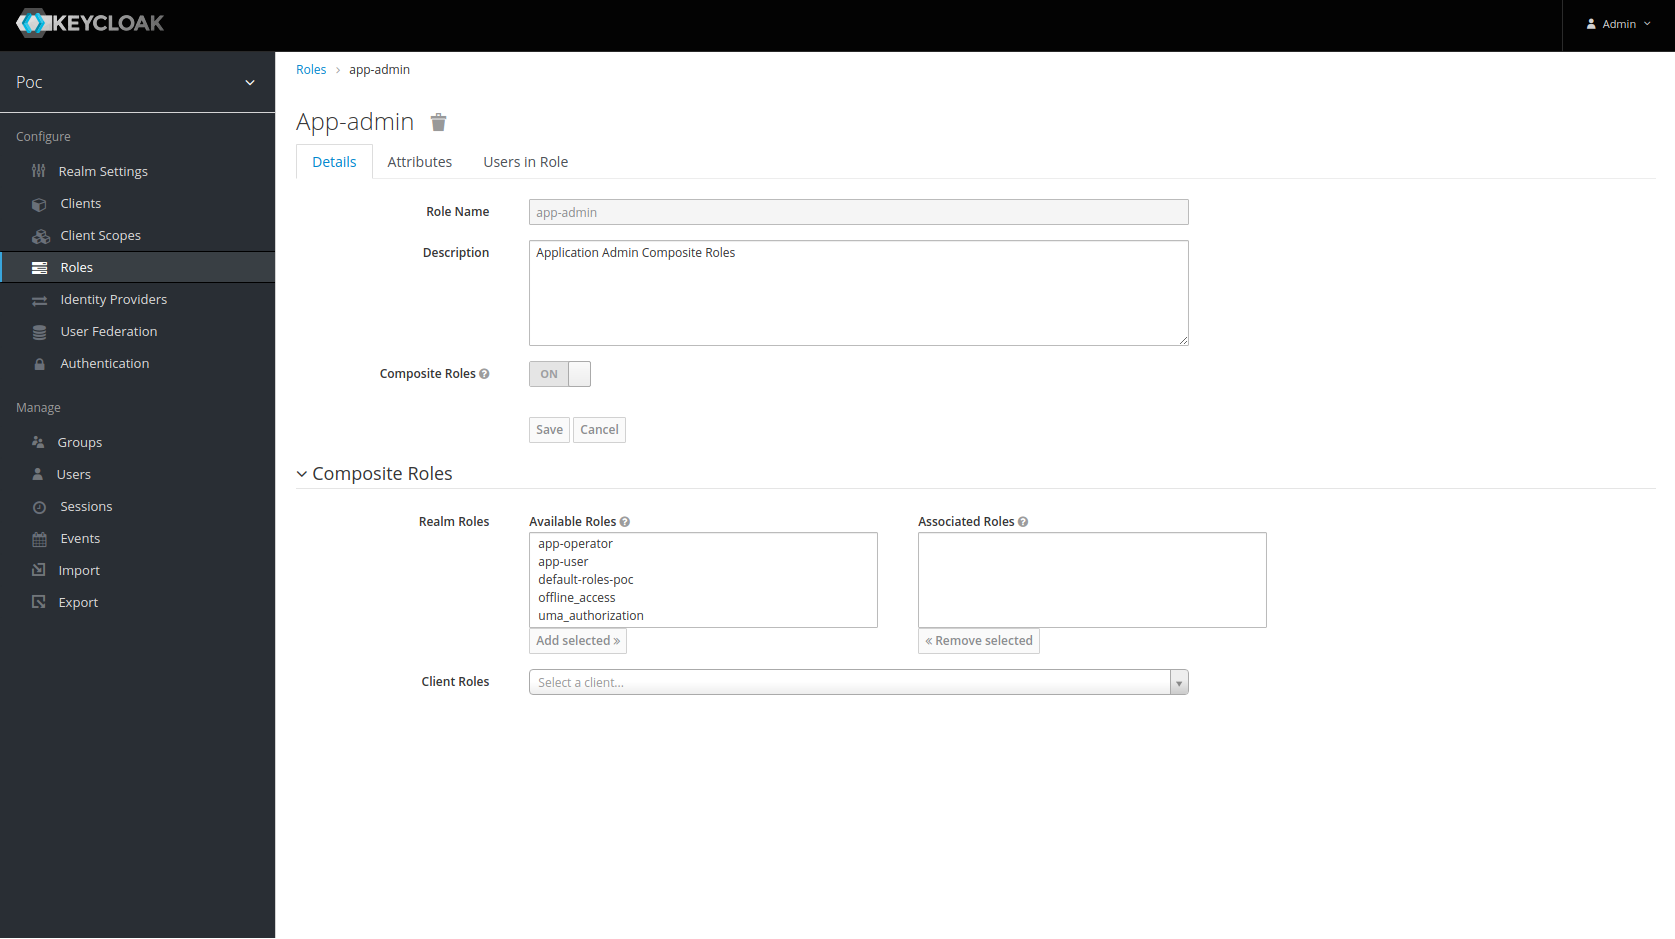
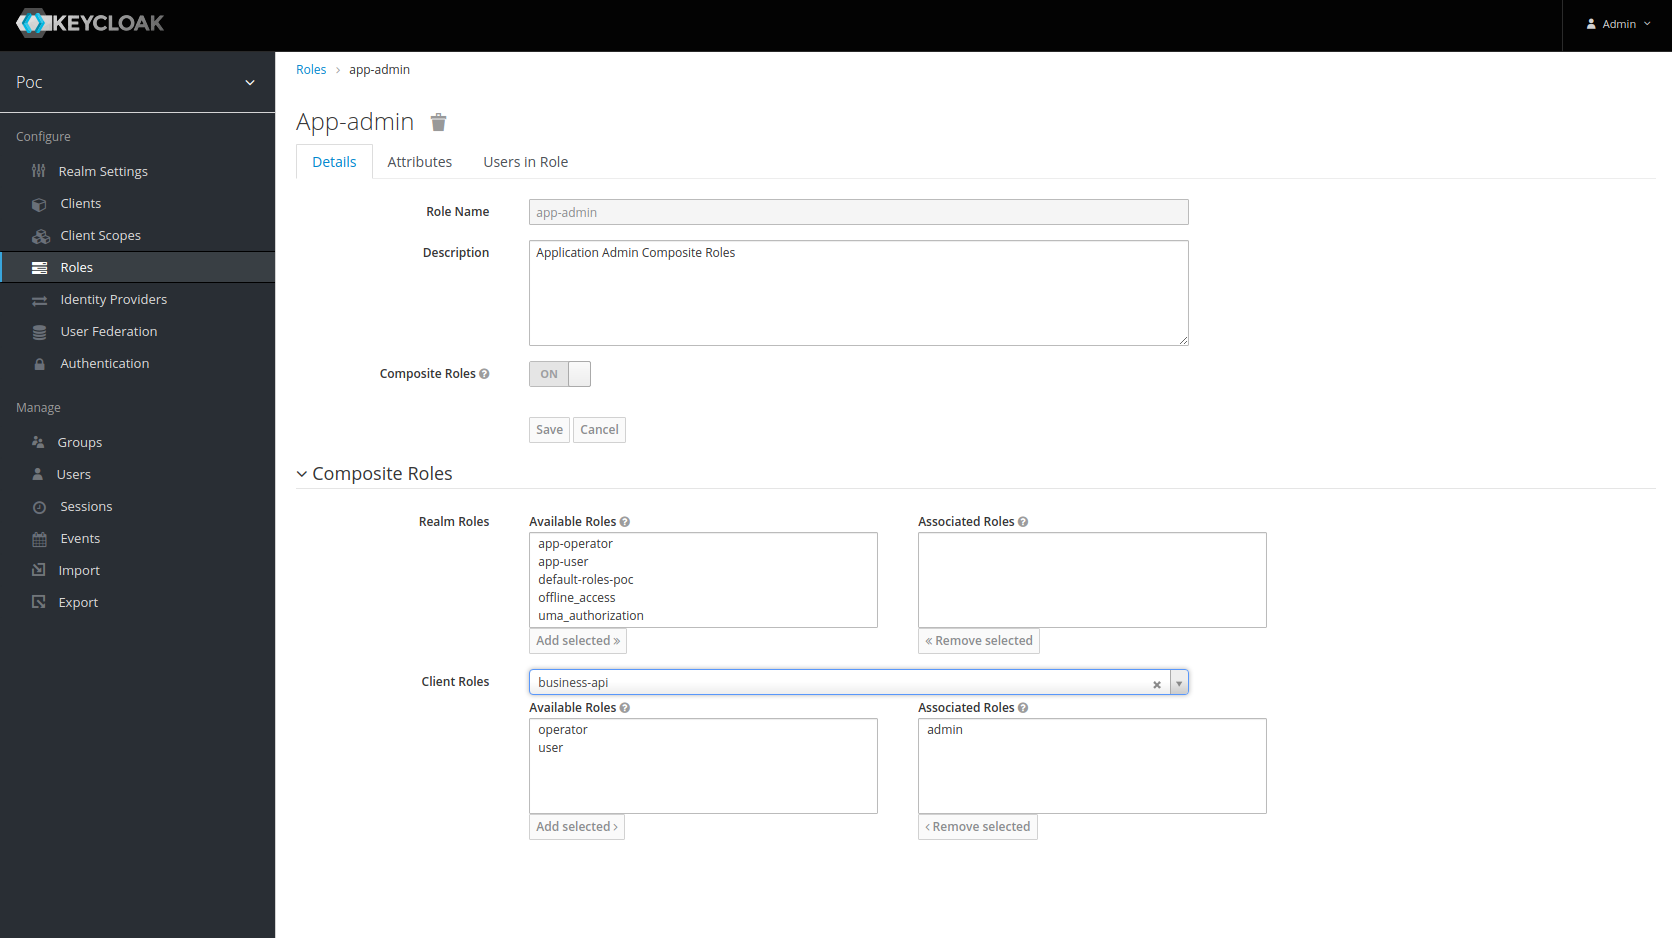
last commit

diff --git a/README.md b/README.md
@@ -23,17 +23,23 @@ We must create each roles inside all microservices. These are all common roles i
 
 ![Client Roles](captures/client_roles.png "Client Roles")
 
-## Create realm roles
-We are going to group all common client roles inside realm composite roles to assign then to users easily. Only for **admin** user we will add all roles from the client **real-manager** client to access keycloak admin api (user/role management)
+## Create realm roles (composite roles)
+We are going to group all common client roles inside **realm composite roles** to assign then to users easily. Only for **app-admin** composite role not also group all admin client roles but also all roles from the client **real-manager** to access keycloak admin api (user/role management)
+
+- **name**: **app-admin** include all **admin** client roles
+- **name**: **app-operator** include all **operator** client roles
+- **name**: **app-user** include all **user** client roles
+
+For the **app-admin** compiste role inside **poc** realm
 
 ![Realm Roles](captures/realm_roles.png "Realm Roles")
 
 ## Create users
-- **name**: **admin** with composite realm role: **app-admin** and **all roles** in **realm-management** client
-- **name**: **operator** with composite realm role: **app-operator**
-- **name**: **user** with composite realm role: **app-user**
+- **name**: **admin** user attached to realm role **app-admin** and **all roles** in **realm-management** client
+- **name**: **operator** user attached to realm role **app-operator**
+- **name**: **user** user attached to realm role **app-user**
 
-The **admin** user has **app-admin** realm role and **all roles** from **realm-manager** client
+The **admin** user with all roles attached
 
 ![Realm Manager Roles](captures/roles_real-manager.png "Realm Manager Roles")
 
